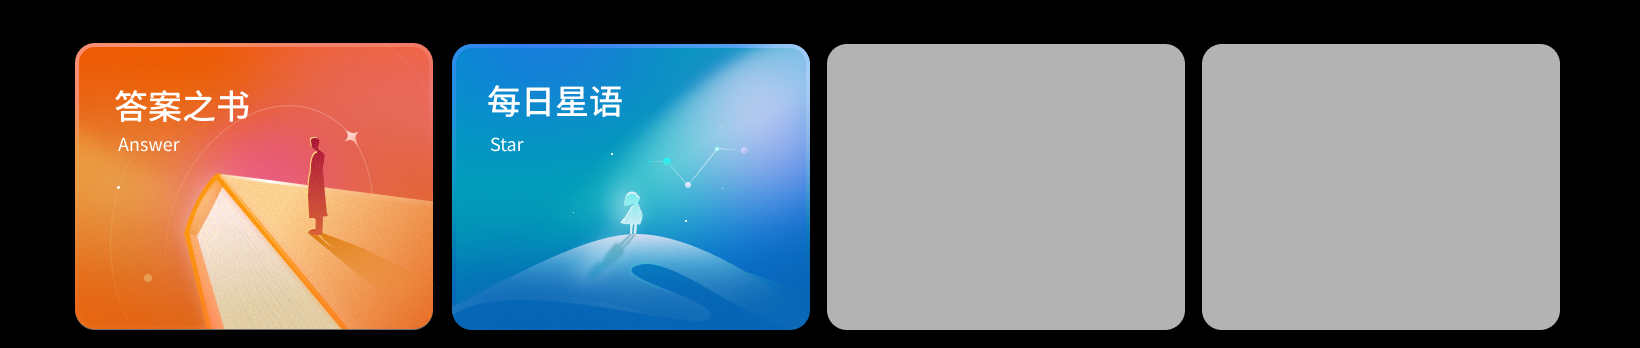
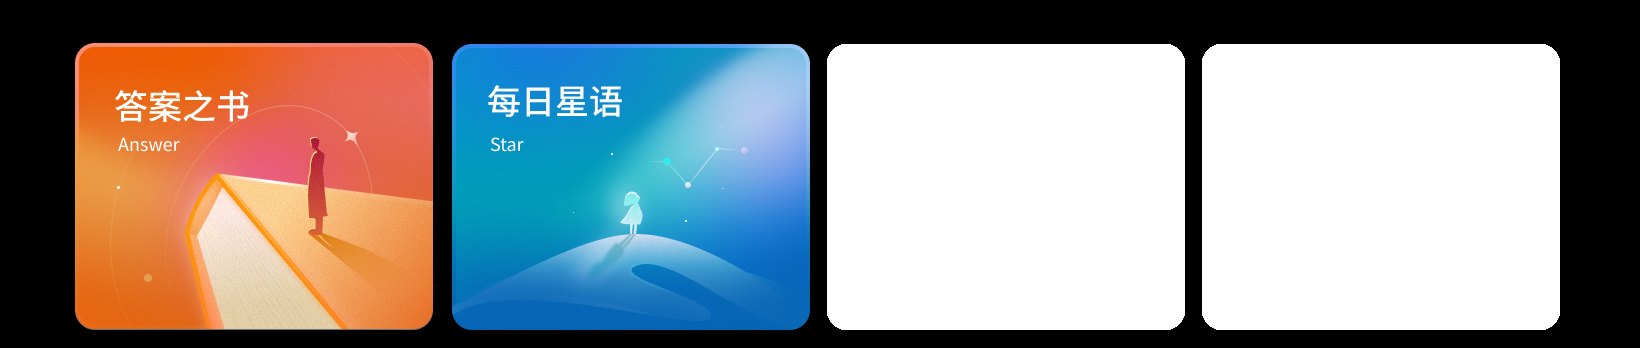
v1 主壳: hcard-3 接入 personality 子项目, 清理 home-bg 性格/姓名卡灰底
- app.js: hcard-3 点击 setScene("personality") 替代 toast, hash 路由白名单 + onSceneEnter 注入 iframe
- index.html: hcard-3 上叠 Figma 4695:33 切图 PNG (358x286 cover)
- styles.css: hcard-3 z-index 提到 cover 之上保留点击, .hcard-3-cover 定位
- home-bg.png: 抠掉性格卡 (827~1185) 和姓名卡 (1202~1560) 两块 (179,179,179) 灰色占位 + 抗锯齿过渡带, 卡槽透出主壳黑底
- .gitignore: 忽略设计稿原图/备份/skill 缓存

diff --git a/v1/index.html b/v1/index.html
@@ -25,6 +25,7 @@
     <button type="button" class="hcard hcard-1" data-card="answer" aria-label="答案之书"></button>
     <button type="button" class="hcard hcard-2" data-card="star" aria-label="每日星语"></button>
     <button type="button" class="hcard hcard-3" data-card="personality" aria-label="性格认知"></button>
+    <img class="hcard-3-cover" src="personality/assets/home-card-personality.png" alt="" draggable="false">
     <button type="button" class="hcard hcard-4" data-card="naming" aria-label="姓名寓意"></button>
   </section>
 
@@ -164,6 +165,14 @@
   <section class="scene scene-answer" data-scene="answer" hidden>
     <iframe class="ans-frame" id="ansFrame" title="答案之书" src="about:blank" frameborder="0"></iframe>
     <button type="button" class="ans-back" data-go="home" aria-label="返回首页">
+      <svg viewBox="0 0 12 22" width="10" height="18"><path d="M11 1 L1 11 L11 21" fill="none" stroke="currentColor" stroke-width="2.5" stroke-linecap="round" stroke-linejoin="round"/></svg>
+    </button>
+  </section>
+
+  <!-- ============== 10. 性格认知 personality（集成 v1/personality 子项目，1640×348 同尺寸 iframe） ============== -->
+  <section class="scene scene-personality" data-scene="personality" hidden>
+    <iframe class="per-frame" id="perFrame" title="性格认知" src="about:blank" frameborder="0"></iframe>
+    <button type="button" class="per-back" data-go="home" aria-label="返回首页">
       <svg viewBox="0 0 12 22" width="10" height="18"><path d="M11 1 L1 11 L11 21" fill="none" stroke="currentColor" stroke-width="2.5" stroke-linecap="round" stroke-linejoin="round"/></svg>
     </button>
   </section>

diff --git a/v1/styles.css b/v1/styles.css
@@ -107,6 +107,22 @@ img{display:block;user-select:none;-webkit-user-drag:none}
 }
 .ans-back:hover{background:rgba(0,0,0,.65)}
 .ans-back:active{transform:scale(.92)}
+
+/* 性格认知 personality —— 集成 v1/personality 子项目 */
+.scene-personality{background:#0a0d12;overflow:hidden}
+.per-frame{position:absolute;inset:0;width:100%;height:100%;border:0;background:#0a0d12}
+.per-back{
+  position:absolute;left:14px;top:14px;
+  width:60px;height:60px;
+  border:0;border-radius:50%;
+  background:rgba(0,0,0,.45);
+  display:grid;place-items:center;
+  color:#fff;cursor:pointer;
+  z-index:5;
+  transition:background var(--t-fast),transform var(--t-fast);
+}
+.per-back:hover{background:rgba(0,0,0,.65)}
+.per-back:active{transform:scale(.92)}
 .scene[hidden]{display:none}
 .scene.is-entering{animation:sceneIn .42s cubic-bezier(.2,.7,.25,1) forwards}
 @keyframes sceneIn{
@@ -184,7 +200,16 @@ img{display:block;user-select:none;-webkit-user-drag:none}
 }
 .scene-home .hcard-1{left:75px}
 .scene-home .hcard-2{left:452px}
-.scene-home .hcard-3{left:827px;cursor:default}
+.scene-home .hcard-3{left:827px;z-index:3}
+.scene-home .hcard-3-cover{
+  position:absolute;left:827px;top:44px;
+  width:358px;height:286px;
+  border-radius:28px;
+  pointer-events:none;
+  z-index:2;
+  user-select:none;
+  -webkit-user-drag:none;
+}
 .scene-home .hcard-4{left:1202px;cursor:default}
 
 /* ============================================================

diff --git a/v1/app.js b/v1/app.js
@@ -159,6 +159,13 @@ function onSceneEnter(name){
       fr.setAttribute("src", target);
     }
   }
+  if(name === "personality"){
+    const fr = $("#perFrame");
+    const target = "personality/index.html";
+    if(fr && fr.getAttribute("src") !== target){
+      fr.setAttribute("src", target);
+    }
+  }
 }
 
 // ---------- 启动 ----------
@@ -186,7 +193,7 @@ function bindEvents(){
           setScene("unbound");
         }
       }else if(card === "personality"){
-        toast("性格认知 · 即将上线");
+        setScene("personality");
       }else if(card === "naming"){
         toast("姓名寓意 · 即将上线");
       }
@@ -521,7 +528,7 @@ function numToZh(n){
 function bootWithHash(){
   init();
   const hash = (location.hash || "").replace("#","");
-  const valid = ["home","unbound","reminder","select","loading","daily","collect","confirm","answer"];
+  const valid = ["home","unbound","reminder","select","loading","daily","collect","confirm","answer","personality"];
 
   // ?noanim=1 关闭入场动画（截图用）；?expand=1 展开为 1500 高（截图 daily 整页用）
   const params = new URLSearchParams(location.search);
